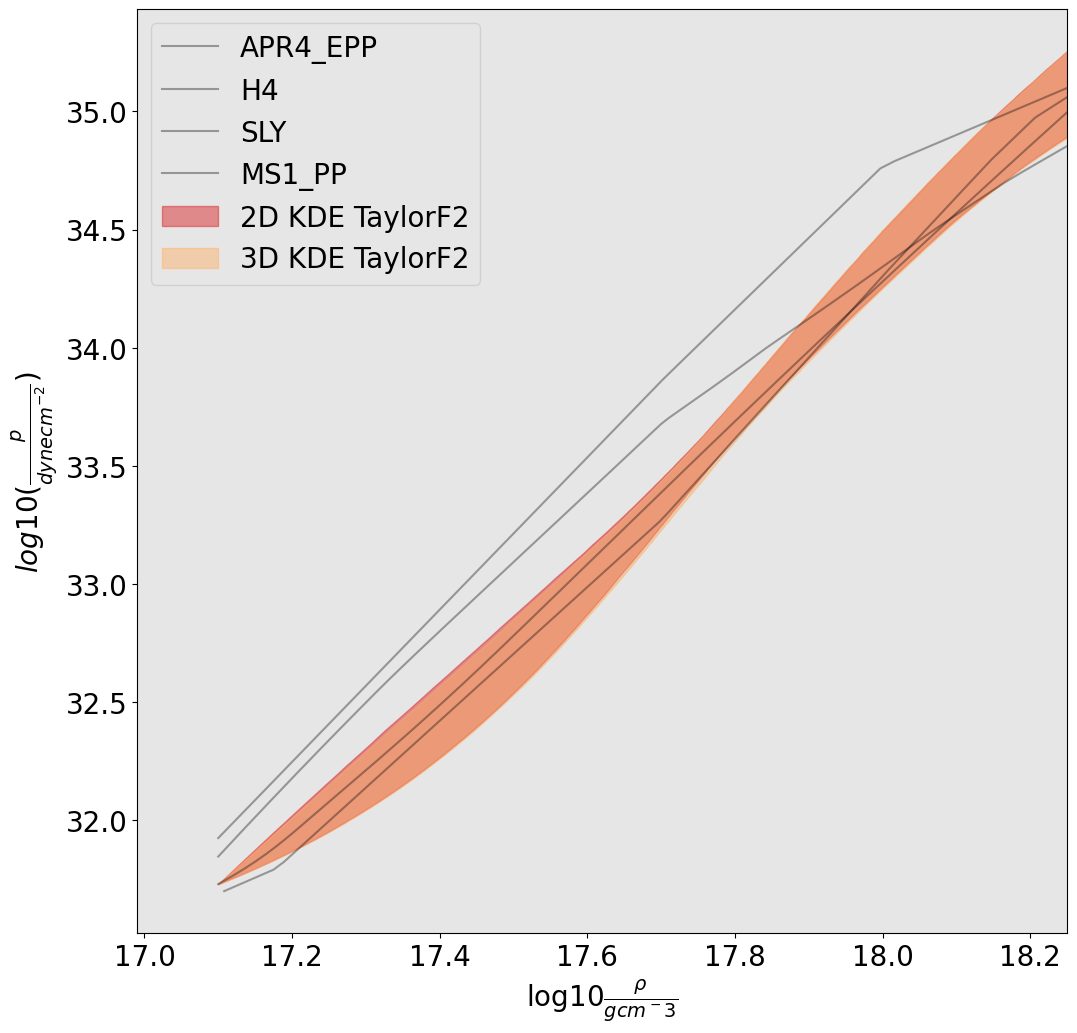
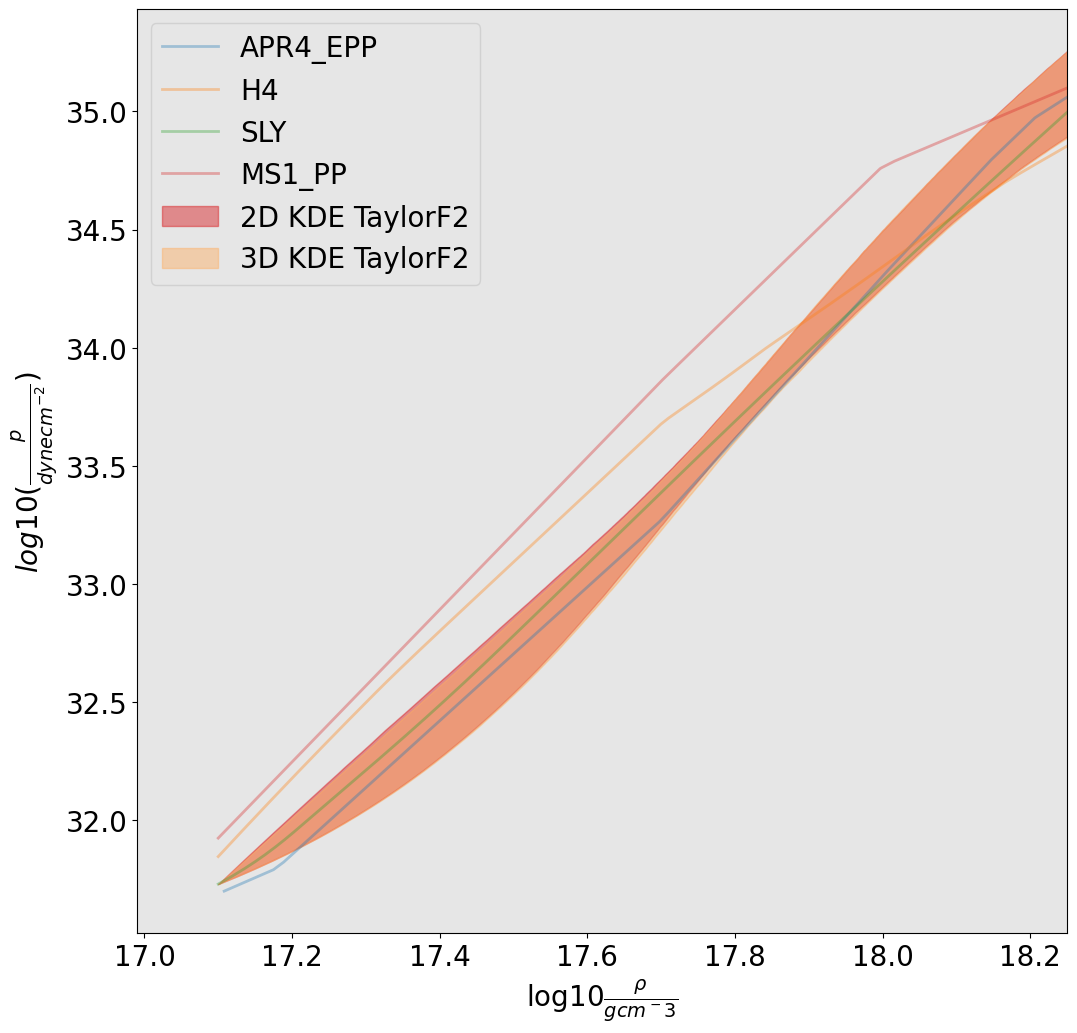
NSF report plots draft 3.

diff --git a/year3/lastStretch/simulConstraint.py b/year3/lastStretch/simulConstraint.py
@@ -134,7 +134,7 @@ def plotConstraint():
     EoSs = ["APR4_EPP","H4","SLY","MS1_PP"]
     for EoS in EoSs:
         logp=eos_p_of_rho(rho,lalsimulation.SimNeutronStarEOSByName(EoS))
-        plt.plot(np.log10(rho),logp,color='black', linewidth=1.5, label=EoS, alpha=0.35)
+        plt.plot(np.log10(rho),logp, linewidth=2.0, label=EoS, alpha=0.35)
 
     plt.xlim([16.99, 18.25])
     plt.xlabel(r'$\log10{\frac{\rho}{g cm^-3}}$',fontsize=20)
